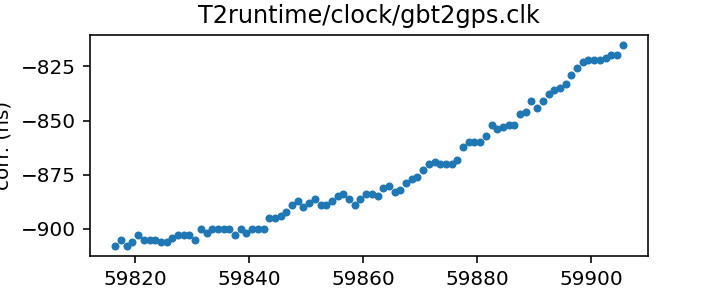
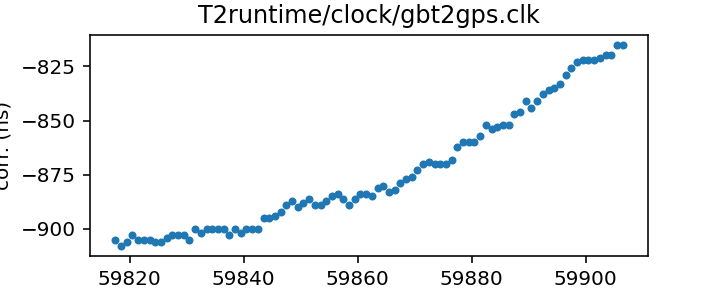
Routine gh-pages update from Github action Thu Nov 24 20:31:05 UTC 2022

diff --git a/status.md b/status.md
@@ -13,17 +13,17 @@ name of each clock file links to a page with more details.
 
 | Name | File | Corrections start | Corrections end | Last check date | Last check result 
 |:--- |:--- | --- | --- | --- |:--- 
-| [GPS to UTC](T2runtime/clock/gps2utc.clk.html) | `T2runtime/clock/gps2utc.clk` | 1993-01-01 MJD 48988.0 | 2022-10-27 MJD 59879.0 | 2022-11-23 | Unchanged 
-| [GPS to UTC (Combined Clock)](T2runtime/clock/gps2utc_cc.clk.html) | `T2runtime/clock/gps2utc_cc.clk` | 1993-01-01 MJD 48988.0 | 2022-10-27 MJD 59879.0 | 2022-11-23 | Unchanged 
-| [GPS to UTC (Corrected)](T2runtime/clock/gps2utc_c0p.clk.html) | `T2runtime/clock/gps2utc_c0p.clk` | 2010-12-29 MJD 55559.0 | 2022-10-27 MJD 59879.0 | 2022-11-23 | Unchanged 
-| [GBT](tempo/clock/time_gbt.dat.html) | `tempo/clock/time_gbt.dat` | 2000-12-31 MJD 51909.5 | 2022-11-22 MJD 59905.5 | 2022-11-23 | Updated 
-| [GBT (TEMPO2 converted from TEMPO)](T2runtime/clock/gbt2gps.clk.html) | `T2runtime/clock/gbt2gps.clk` | 2000-12-31 MJD 51909.5 | 2022-11-22 MJD 59905.5 | 2022-11-23 | Updated 
+| [GPS to UTC](T2runtime/clock/gps2utc.clk.html) | `T2runtime/clock/gps2utc.clk` | 1993-01-01 MJD 48988.0 | 2022-10-27 MJD 59879.0 | 2022-11-24 | Unchanged 
+| [GPS to UTC (Combined Clock)](T2runtime/clock/gps2utc_cc.clk.html) | `T2runtime/clock/gps2utc_cc.clk` | 1993-01-01 MJD 48988.0 | 2022-10-27 MJD 59879.0 | 2022-11-24 | Unchanged 
+| [GPS to UTC (Corrected)](T2runtime/clock/gps2utc_c0p.clk.html) | `T2runtime/clock/gps2utc_c0p.clk` | 2010-12-29 MJD 55559.0 | 2022-10-27 MJD 59879.0 | 2022-11-24 | Unchanged 
+| [GBT](tempo/clock/time_gbt.dat.html) | `tempo/clock/time_gbt.dat` | 2000-12-31 MJD 51909.5 | 2022-11-23 MJD 59906.5 | 2022-11-24 | Updated 
+| [GBT (TEMPO2 converted from TEMPO)](T2runtime/clock/gbt2gps.clk.html) | `T2runtime/clock/gbt2gps.clk` | 2000-12-31 MJD 51909.5 | 2022-11-23 MJD 59906.5 | 2022-11-24 | Updated 
 | [Jodrell Bank](T2runtime/clock/jb2gps.clk.html) | `T2runtime/clock/jb2gps.clk` | 2006-10-13 MJD 54021.4 | 2021-11-03 MJD 59521.0 | 2022-11-23 | Unchanged 
 | [Jodrell Bank Roach](T2runtime/clock/jbroach2jb.clk.html) | `T2runtime/clock/jbroach2jb.clk` | 2006-10-13 MJD 54021.4 | 2018-03-20 MJD 58197.6 | 2022-11-23 | Unchanged 
 | [Jodrell Bank DFB](T2runtime/clock/jbdfb2jb.clk.html) | `T2runtime/clock/jbdfb2jb.clk` | 2006-10-13 MJD 54021.4 | 2017-05-11 MJD 57884.0 | 2022-11-23 | Unchanged 
 | [Meerkat (observatory)](T2runtime/clock/mk2utc_observatory.clk.html) | `T2runtime/clock/mk2utc_observatory.clk` | 2019-01-01 MJD 58484.0 | 2022-11-07 MJD 59891.0 | 2022-11-21 | Updated 
-| [Leap seconds](tempo/clock/leap.sec.html) | `tempo/clock/leap.sec` | 1972-07-01 MJD 41499.0 | 2017-01-01 MJD 57754.0 | 2022-11-23 | Unchanged 
-| [UT1 table](tempo/clock/ut1.dat.html) | `tempo/clock/ut1.dat` | 1973-01-02 MJD 41684.0 | 2023-11-25 MJD 60273.0 | 2022-11-23 | Unchanged 
+| [Leap seconds](tempo/clock/leap.sec.html) | `tempo/clock/leap.sec` | 1972-07-01 MJD 41499.0 | 2017-01-01 MJD 57754.0 | 2022-11-24 | Unchanged 
+| [UT1 table](tempo/clock/ut1.dat.html) | `tempo/clock/ut1.dat` | 1973-01-02 MJD 41684.0 | 2023-12-02 MJD 60280.0 | 2022-11-24 | Updated 
 
 
 
@@ -63,21 +63,21 @@ name of each clock file links to a page with more details.
 
 | Name | File | Corrections start | Corrections end | Last check date | Last check result 
 |:--- |:--- | --- | --- | --- |:--- 
-| [GPS to UTC (TEMPO2)](T2runtime/clock/gps2utc_tempo2.clk.html) | `T2runtime/clock/gps2utc_tempo2.clk` | 1996-03-27 MJD 50169.0 | 2020-10-27 MJD 59149.0 | 2022-11-17 | Unchanged 
+| [GPS to UTC (TEMPO2)](T2runtime/clock/gps2utc_tempo2.clk.html) | `T2runtime/clock/gps2utc_tempo2.clk` | 1996-03-27 MJD 50169.0 | 2020-10-27 MJD 59149.0 | 2022-11-24 | Unchanged 
 | [GBT (TEMPO2)](T2runtime/clock/gbt2gps_tempo2.clk.html) | `T2runtime/clock/gbt2gps_tempo2.clk` | 2000-12-31 MJD 51909.5 | 2020-02-25 MJD 58904.5 | 2022-11-21 | Unchanged 
-| [Jodrell Bank (TEMPO)](tempo/clock/time_jb.dat.html) | `tempo/clock/time_jb.dat` | 2006-10-13 MJD 54021.4 | 2019-05-13 MJD 58616.2 | 2022-11-17 | Unchanged 
-| [VLA](tempo/clock/time_vla.dat.html) | `tempo/clock/time_vla.dat` | 1990-10-27 MJD 48191.2 | 2021-03-07 MJD 59280.5 | 2022-11-17 | **Failed to download** 
+| [Jodrell Bank (TEMPO)](tempo/clock/time_jb.dat.html) | `tempo/clock/time_jb.dat` | 2006-10-13 MJD 54021.4 | 2019-05-13 MJD 58616.2 | 2022-11-24 | Unchanged 
+| [VLA](tempo/clock/time_vla.dat.html) | `tempo/clock/time_vla.dat` | 1990-10-27 MJD 48191.2 | 2021-03-07 MJD 59280.5 | 2022-11-24 | **Failed to download** 
 | [VLA (TEMPO2)](T2runtime/clock/vla2gps.clk.html) | `T2runtime/clock/vla2gps.clk` | 2015-02-01 MJD 57054.6 | 2021-03-07 MJD 59280.5 | 2022-11-23 | Unchanged 
 | [VLA to NIST](T2runtime/clock/vla2nist.clk.html) | `T2runtime/clock/vla2nist.clk` | 1990-10-27 MJD 48191.2 | 1993-11-13 MJD 49304.0 | 2022-11-23 | Unchanged 
-| [FAST](tempo/clock/time_fast.dat.html) | `tempo/clock/time_fast.dat` | 2017-07-26 MJD 57960.4 | 2019-09-18 MJD 58744.0 | 2022-11-17 | **Failed to download** 
-| [WSRT](T2runtime/clock/wsrt2gps.clk.html) | `T2runtime/clock/wsrt2gps.clk` | 1999-01-01 MJD 51179.5 | 2015-06-29 MJD 57202.1 | 2022-11-17 | Unchanged 
-| [WSRT (TEMPO)](tempo/clock/time_wsrt.dat.html) | `tempo/clock/time_wsrt.dat` | 1987-07-24 MJD 47000.0 | 2007-12-24 MJD 54458.0 | 2022-11-17 | **Validation failed** 
+| [FAST](tempo/clock/time_fast.dat.html) | `tempo/clock/time_fast.dat` | 2017-07-26 MJD 57960.4 | 2019-09-18 MJD 58744.0 | 2022-11-24 | **Failed to download** 
+| [WSRT](T2runtime/clock/wsrt2gps.clk.html) | `T2runtime/clock/wsrt2gps.clk` | 1999-01-01 MJD 51179.5 | 2015-06-29 MJD 57202.1 | 2022-11-24 | Unchanged 
+| [WSRT (TEMPO)](tempo/clock/time_wsrt.dat.html) | `tempo/clock/time_wsrt.dat` | 1987-07-24 MJD 47000.0 | 2007-12-24 MJD 54458.0 | 2022-11-24 | **Validation failed** 
 | [Parkes](T2runtime/clock/pks2gps.clk.html) | `T2runtime/clock/pks2gps.clk` | 1858-11-17 MJD 0.0 | 2019-07-31 MJD 58695.4 | 2022-11-23 | Unchanged 
-| [Parkes (TEMPO)](tempo/clock/time_pks.dat.html) | `tempo/clock/time_pks.dat` | 1979-05-07 MJD 44000.0 | 2011-07-03 MJD 55745.8 | 2022-11-17 | **Validation failed** 
+| [Parkes (TEMPO)](tempo/clock/time_pks.dat.html) | `tempo/clock/time_pks.dat` | 1979-05-07 MJD 44000.0 | 2011-07-03 MJD 55745.8 | 2022-11-24 | **Validation failed** 
 | [SRT](T2runtime/clock/srt2gps.clk.html) | `T2runtime/clock/srt2gps.clk` | 2013-03-20 MJD 56371.0 | 2019-12-11 MJD 58828.0 | 2022-11-23 | Unchanged 
 | [Effelsberg](T2runtime/clock/eff2gps.clk.html) | `T2runtime/clock/eff2gps.clk` | 1993-11-29 MJD 49320.0 | 2015-06-22 MJD 57195.5 | 2022-11-23 | Unchanged 
 | [Effelsberg Asterix/PSRix](T2runtime/clock/effix2gps.clk.html) | `T2runtime/clock/effix2gps.clk` | 2011-01-01 MJD 55562.5 | 2021-03-21 MJD 59294.5 | 2022-11-23 | Unchanged 
-| [NUPPI](tempo/clock/time_nuppi.dat.html) | `tempo/clock/time_nuppi.dat` | 2005-03-07 MJD 53436.0 | 2015-11-08 MJD 57334.6 | 2022-11-17 | Unchanged 
+| [NUPPI](tempo/clock/time_nuppi.dat.html) | `tempo/clock/time_nuppi.dat` | 2005-03-07 MJD 53436.0 | 2015-11-08 MJD 57334.6 | 2022-11-24 | Unchanged 
 | [Meerkat (TEMPO2)](T2runtime/clock/mk2utc.clk.html) | `T2runtime/clock/mk2utc.clk` | 2019-01-01 MJD 58484.0 | 2021-02-22 MJD 59268.0 | 2022-11-23 | Unchanged 
 | [MOST](T2runtime/clock/mo2gps.clk.html) | `T2runtime/clock/mo2gps.clk` | 2003-12-27 MJD 53000.0 | 2018-09-06 MJD 58367.0 | 2022-11-23 | Unchanged 
 | [Nancay to obspm](T2runtime/clock/ncyobs2obspm.clk.html) | `T2runtime/clock/ncyobs2obspm.clk` | 1988-05-18 MJD 47299.6 | 2021-11-01 MJD 59519.6 | 2022-11-23 | Unchanged 

diff --git a/tempo/clock/time_pks.dat.md b/tempo/clock/time_pks.dat.md
@@ -19,12 +19,11 @@ in the same file, distinguished only by observatory code.
 | Clock file start | 1979-05-07 MJD 44000.0 |
 | Clock file end | 2011-07-03 MJD 55745.8 |
 | Update interval (days) | 7 |
-| Last update attempt | 2022-11-17 |
+| Last update attempt | 2022-11-24 |
 | Last update result | Validation failed |
 
 Log entries from the last few update attempts:
 ```
-2022-09-15 20:41:00.949 - Validation failed: Unable to read new version of tempo/clock/time_pks.dat: Clock file /tmp/astropy-download-1665-hg0o4nmt appears to be out of order
 2022-09-22 20:39:27.672 - Validation failed: Unable to read new version of tempo/clock/time_pks.dat: Clock file /tmp/astropy-download-1731-md2w727v appears to be out of order
 2022-09-29 20:43:08.532 - Validation failed: Unable to read new version of tempo/clock/time_pks.dat: Clock file /tmp/astropy-download-1670-yxq_zqy5 appears to be out of order
 2022-10-06 20:41:55.213 - Validation failed: Unable to read new version of tempo/clock/time_pks.dat: Clock file /tmp/astropy-download-1835-pho_7rq0 appears to be out of order
@@ -34,6 +33,7 @@ Log entries from the last few update attempts:
 2022-11-03 20:28:54.064 - Validation failed: Unable to read new version of tempo/clock/time_pks.dat: Clock file /tmp/astropy-download-1727-bruta8nv appears to be out of order
 2022-11-10 20:35:54.665 - Validation failed: Unable to read new version of tempo/clock/time_pks.dat: Clock file /tmp/astropy-download-1743-kjo8tfp_ appears to be out of order
 2022-11-17 20:32:53.530 - Validation failed: Unable to read new version of tempo/clock/time_pks.dat: Clock file /tmp/astropy-download-1723-nigfpa8k appears to be out of order
+2022-11-24 20:30:34.986 - Validation failed: Unable to read new version of tempo/clock/time_pks.dat: Clock file /tmp/astropy-download-1724-0x4a501_ appears to be out of order
 ```
 [Full log](https://raw.githubusercontent.com/ipta/pulsar-clock-corrections/main/log/tempo/clock/time_pks.dat.log)
 

diff --git a/tempo/clock/time_wsrt.dat.md b/tempo/clock/time_wsrt.dat.md
@@ -19,12 +19,11 @@ should be the same information.
 | Clock file start | 1987-07-24 MJD 47000.0 |
 | Clock file end | 2007-12-24 MJD 54458.0 |
 | Update interval (days) | 7 |
-| Last update attempt | 2022-11-17 |
+| Last update attempt | 2022-11-24 |
 | Last update result | Validation failed |
 
 Log entries from the last few update attempts:
 ```
-2022-09-15 20:41:00.601 - Validation failed: Unable to read new version of tempo/clock/time_wsrt.dat: Clock file /tmp/astropy-download-1665-5wox4f37 appears to be out of order
 2022-09-22 20:39:27.254 - Validation failed: Unable to read new version of tempo/clock/time_wsrt.dat: Clock file /tmp/astropy-download-1731-9z7agicr appears to be out of order
 2022-09-29 20:43:08.152 - Validation failed: Unable to read new version of tempo/clock/time_wsrt.dat: Clock file /tmp/astropy-download-1670-r1ox93xv appears to be out of order
 2022-10-06 20:41:54.543 - Validation failed: Unable to read new version of tempo/clock/time_wsrt.dat: Clock file /tmp/astropy-download-1835-gtjyjp4z appears to be out of order
@@ -34,6 +33,7 @@ Log entries from the last few update attempts:
 2022-11-03 20:28:53.595 - Validation failed: Unable to read new version of tempo/clock/time_wsrt.dat: Clock file /tmp/astropy-download-1727-6dl2vmcd appears to be out of order
 2022-11-10 20:35:54.334 - Validation failed: Unable to read new version of tempo/clock/time_wsrt.dat: Clock file /tmp/astropy-download-1743-frs4ejts appears to be out of order
 2022-11-17 20:32:52.738 - Validation failed: Unable to read new version of tempo/clock/time_wsrt.dat: Clock file /tmp/astropy-download-1723-h98_u__t appears to be out of order
+2022-11-24 20:30:34.627 - Validation failed: Unable to read new version of tempo/clock/time_wsrt.dat: Clock file /tmp/astropy-download-1724-qme1t0fc appears to be out of order
 ```
 [Full log](https://raw.githubusercontent.com/ipta/pulsar-clock-corrections/main/log/tempo/clock/time_wsrt.dat.log)
 

diff --git a/T2runtime/clock/gbt2gps.clk.md b/T2runtime/clock/gbt2gps.clk.md
@@ -23,14 +23,13 @@ If questions arise about the conversion, contact Anne Archibald
 | Format | tempo2 |
 | Bogus last correction | False |
 | Clock file start | 2000-12-31 MJD 51909.5 |
-| Clock file end | 2022-11-22 MJD 59905.5 |
+| Clock file end | 2022-11-23 MJD 59906.5 |
 | Update interval (days) | 1 |
-| Last update attempt | 2022-11-23 |
+| Last update attempt | 2022-11-24 |
 | Last update result | Updated |
 
 Log entries from the last few update attempts:
 ```
-2022-11-14 20:34:24.128 - Updated
 2022-11-15 20:33:02.042 - Updated
 2022-11-16 20:32:58.984 - Updated
 2022-11-17 20:32:49.113 - Updated
@@ -40,12 +39,13 @@ Log entries from the last few update attempts:
 2022-11-21 20:30:54.402 - Updated
 2022-11-22 20:30:46.980 - Updated
 2022-11-23 20:30:46.898 - Updated
+2022-11-24 20:30:28.980 - Updated
 ```
 [Full log](https://raw.githubusercontent.com/ipta/pulsar-clock-corrections/main/log/T2runtime/clock/gbt2gps.clk.log)
 
 Leading comments from clock file:
 
-    # This file was automatically converted from tempo/clock/time_gbt.dat on 2022-11-23 20:30:46.830
+    # This file was automatically converted from tempo/clock/time_gbt.dat on 2022-11-24 20:30:28.892
 
 
 

diff --git a/tempo/clock/time_vla.dat.md b/tempo/clock/time_vla.dat.md
@@ -17,12 +17,11 @@ This file is pulled from the PINT repository and may not be fully up-to-date.
 | Clock file start | 1990-10-27 MJD 48191.2 |
 | Clock file end | 2021-03-07 MJD 59280.5 |
 | Update interval (days) | 7 |
-| Last update attempt | 2022-11-17 |
+| Last update attempt | 2022-11-24 |
 | Last update result | Failed to download |
 
 Log entries from the last few update attempts:
 ```
-2022-09-15 20:40:59.671 - Failed to download: HTTP Error 404: Not Found
 2022-09-22 20:39:26.359 - Failed to download: HTTP Error 404: Not Found
 2022-09-29 20:43:07.208 - Failed to download: HTTP Error 404: Not Found
 2022-10-06 20:41:52.923 - Failed to download: HTTP Error 404: Not Found
@@ -32,6 +31,7 @@ Log entries from the last few update attempts:
 2022-11-03 20:28:52.915 - Failed to download: HTTP Error 404: Not Found
 2022-11-10 20:35:53.381 - Failed to download: HTTP Error 404: Not Found
 2022-11-17 20:32:51.651 - Failed to download: HTTP Error 404: Not Found
+2022-11-24 20:30:33.783 - Failed to download: HTTP Error 404: Not Found
 ```
 [Full log](https://raw.githubusercontent.com/ipta/pulsar-clock-corrections/main/log/tempo/clock/time_vla.dat.log)
 

diff --git a/tempo/clock/time_fast.dat.md b/tempo/clock/time_fast.dat.md
@@ -24,12 +24,11 @@ to contact is 缪晨晨 <miaocc@bao.ac.cn>, Chenchen Miao.
 | Clock file start | 2017-07-26 MJD 57960.4 |
 | Clock file end | 2019-09-18 MJD 58744.0 |
 | Update interval (days) | 7 |
-| Last update attempt | 2022-11-17 |
+| Last update attempt | 2022-11-24 |
 | Last update result | Failed to download |
 
 Log entries from the last few update attempts:
 ```
-2022-09-15 20:40:59.823 - Failed to download: HTTP Error 404: Not Found
 2022-09-22 20:39:26.512 - Failed to download: HTTP Error 404: Not Found
 2022-09-29 20:43:07.428 - Failed to download: HTTP Error 404: Not Found
 2022-10-06 20:41:53.004 - Failed to download: HTTP Error 404: Not Found
@@ -39,6 +38,7 @@ Log entries from the last few update attempts:
 2022-11-03 20:28:53.038 - Failed to download: HTTP Error 404: Not Found
 2022-11-10 20:35:53.584 - Failed to download: HTTP Error 404: Not Found
 2022-11-17 20:32:51.802 - Failed to download: HTTP Error 404: Not Found
+2022-11-24 20:30:33.952 - Failed to download: HTTP Error 404: Not Found
 ```
 [Full log](https://raw.githubusercontent.com/ipta/pulsar-clock-corrections/main/log/tempo/clock/time_fast.dat.log)
 

diff --git a/tempo/clock/ut1.dat.md b/tempo/clock/ut1.dat.md
@@ -28,14 +28,13 @@ If there are any questions, contact Anne Archibald
 | File | `tempo/clock/ut1.dat` |
 | Authority | observatory |
 | File start | 1973-01-02 MJD 41684.0 |
-| File end | 2023-11-25 MJD 60273.0 |
+| File end | 2023-12-02 MJD 60280.0 |
 | Update interval (days) | 0 |
-| Last update attempt | 2022-11-23 |
-| Last update result | Unchanged |
+| Last update attempt | 2022-11-24 |
+| Last update result | Updated |
 
 Log entries from the last few update attempts:
 ```
-2022-11-14 20:34:35.680 - Unchanged
 2022-11-15 20:33:10.234 - Unchanged
 2022-11-16 20:33:15.052 - Unchanged
 2022-11-17 20:33:04.060 - Updated
@@ -45,5 +44,6 @@ Log entries from the last few update attempts:
 2022-11-21 20:31:06.450 - Unchanged
 2022-11-22 20:30:55.163 - Unchanged
 2022-11-23 20:31:02.525 - Unchanged
+2022-11-24 20:30:45.516 - Updated
 ```
 [Full log](https://raw.githubusercontent.com/ipta/pulsar-clock-corrections/main/log/tempo/clock/ut1.dat.log)

diff --git a/tempo/clock/time_gbt.dat.md b/tempo/clock/time_gbt.dat.md
@@ -18,14 +18,13 @@ If questions arise, contact Ryan S. Lynch <rlynch@nrao.edu>.
 | Format | tempo |
 | Bogus last correction | False |
 | Clock file start | 2000-12-31 MJD 51909.5 |
-| Clock file end | 2022-11-22 MJD 59905.5 |
+| Clock file end | 2022-11-23 MJD 59906.5 |
 | Update interval (days) | 1 |
-| Last update attempt | 2022-11-23 |
+| Last update attempt | 2022-11-24 |
 | Last update result | Updated |
 
 Log entries from the last few update attempts:
 ```
-2022-11-14 20:34:23.861 - Updated
 2022-11-15 20:33:01.972 - Updated
 2022-11-16 20:32:58.893 - Updated
 2022-11-17 20:32:49.044 - Updated
@@ -35,6 +34,7 @@ Log entries from the last few update attempts:
 2022-11-21 20:30:53.967 - Updated
 2022-11-22 20:30:46.909 - Updated
 2022-11-23 20:30:46.828 - Updated
+2022-11-24 20:30:28.888 - Updated
 ```
 [Full log](https://raw.githubusercontent.com/ipta/pulsar-clock-corrections/main/log/tempo/clock/time_gbt.dat.log)
 

diff --git a/T2runtime/clock/wsrt2gps.clk.md b/T2runtime/clock/wsrt2gps.clk.md
@@ -16,12 +16,11 @@ This file is pulled from the TEMPO2 repository and may not be fully up-to-date.
 | Clock file start | 1999-01-01 MJD 51179.5 |
 | Clock file end | 2015-06-29 MJD 57202.1 |
 | Update interval (days) | 7 |
-| Last update attempt | 2022-11-17 |
+| Last update attempt | 2022-11-24 |
 | Last update result | Unchanged |
 
 Log entries from the last few update attempts:
 ```
-2022-09-15 20:41:00.194 - Unchanged
 2022-09-22 20:39:26.925 - Unchanged
 2022-09-29 20:43:07.902 - Unchanged
 2022-10-06 20:41:53.457 - Unchanged
@@ -31,6 +30,7 @@ Log entries from the last few update attempts:
 2022-11-03 20:28:53.233 - Unchanged
 2022-11-10 20:35:54.074 - Unchanged
 2022-11-17 20:32:52.193 - Unchanged
+2022-11-24 20:30:34.292 - Unchanged
 ```
 [Full log](https://raw.githubusercontent.com/ipta/pulsar-clock-corrections/main/log/T2runtime/clock/wsrt2gps.clk.log)
 

diff --git a/tempo/clock/time_nuppi.dat.md b/tempo/clock/time_nuppi.dat.md
@@ -16,12 +16,11 @@ This file is pulled from the TEMPO repository and may not be fully up-to-date.
 | Clock file start | 2005-03-07 MJD 53436.0 |
 | Clock file end | 2015-11-08 MJD 57334.6 |
 | Update interval (days) | 7 |
-| Last update attempt | 2022-11-17 |
+| Last update attempt | 2022-11-24 |
 | Last update result | Unchanged |
 
 Log entries from the last few update attempts:
 ```
-2022-09-15 20:41:02.222 - Unchanged
 2022-09-22 20:39:27.986 - Unchanged
 2022-09-29 20:43:08.835 - Unchanged
 2022-10-06 20:41:55.702 - Unchanged
@@ -31,6 +30,7 @@ Log entries from the last few update attempts:
 2022-11-03 20:28:54.505 - Unchanged
 2022-11-10 20:35:54.965 - Unchanged
 2022-11-17 20:32:53.914 - Unchanged
+2022-11-24 20:30:35.313 - Unchanged
 ```
 [Full log](https://raw.githubusercontent.com/ipta/pulsar-clock-corrections/main/log/tempo/clock/time_nuppi.dat.log)
 

diff --git a/tempo/clock/time_jb.dat.md b/tempo/clock/time_jb.dat.md
@@ -16,12 +16,11 @@ This file is pulled from the TEMPO repository and may not be fully up-to-date.
 | Clock file start | 2006-10-13 MJD 54021.4 |
 | Clock file end | 2019-05-13 MJD 58616.2 |
 | Update interval (days) | 7 |
-| Last update attempt | 2022-11-17 |
+| Last update attempt | 2022-11-24 |
 | Last update result | Unchanged |
 
 Log entries from the last few update attempts:
 ```
-2022-09-15 20:40:59.504 - Unchanged
 2022-09-22 20:39:26.199 - Unchanged
 2022-09-29 20:43:06.998 - Unchanged
 2022-10-06 20:41:52.811 - Unchanged
@@ -31,6 +30,7 @@ Log entries from the last few update attempts:
 2022-11-03 20:28:52.787 - Unchanged
 2022-11-10 20:35:53.189 - Unchanged
 2022-11-17 20:32:51.337 - Unchanged
+2022-11-24 20:30:33.610 - Unchanged
 ```
 [Full log](https://raw.githubusercontent.com/ipta/pulsar-clock-corrections/main/log/tempo/clock/time_jb.dat.log)
 

diff --git a/T2runtime/clock/gps2utc_c0p.clk.md b/T2runtime/clock/gps2utc_c0p.clk.md
@@ -30,12 +30,11 @@ about the BIPM's published corrections, contact <tai@bipm.org>.
 | Clock file start | 2010-12-29 MJD 55559.0 |
 | Clock file end | 2022-10-27 MJD 59879.0 |
 | Update interval (days) | 1 |
-| Last update attempt | 2022-11-23 |
+| Last update attempt | 2022-11-24 |
 | Last update result | Unchanged |
 
 Log entries from the last few update attempts:
 ```
-2022-11-14 20:34:23.476 - Unchanged
 2022-11-15 20:33:01.582 - Unchanged
 2022-11-16 20:32:58.277 - Unchanged
 2022-11-17 20:32:48.287 - Unchanged
@@ -45,6 +44,7 @@ Log entries from the last few update attempts:
 2022-11-21 20:30:53.600 - Unchanged
 2022-11-22 20:30:46.562 - Unchanged
 2022-11-23 20:30:46.138 - Unchanged
+2022-11-24 20:30:28.077 - Unchanged
 ```
 [Full log](https://raw.githubusercontent.com/ipta/pulsar-clock-corrections/main/log/T2runtime/clock/gps2utc_c0p.clk.log)
 
